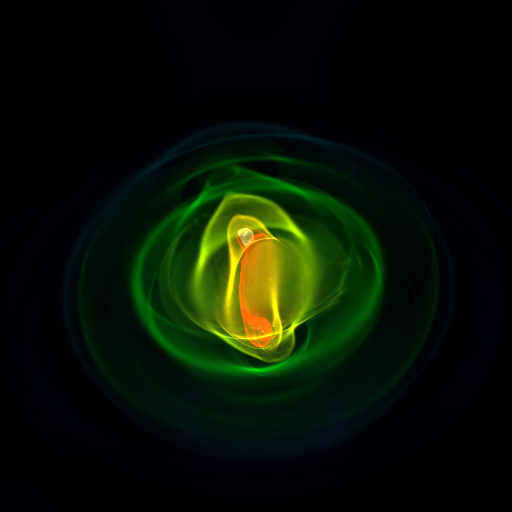
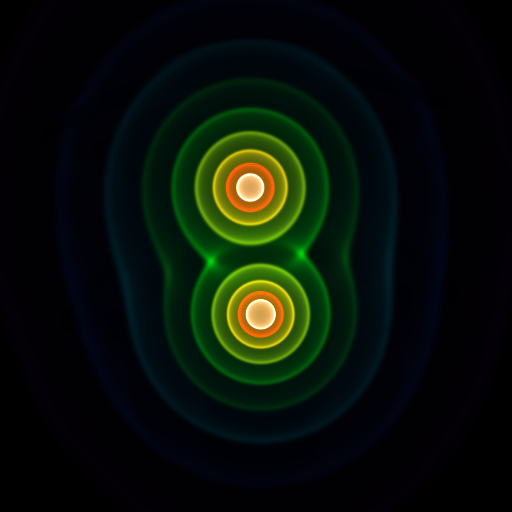
Adding saved python script

Changed region(s): [[0.2188, 0.1562, 0.7812, 0.75], [0.5938, 0.1875, 0.6562, 0.25], [0.1562, 0.5, 0.1875, 0.5312]]

diff --git a/ethan/yt_script1t.py b/ethan/yt_script1t.py
@@ -1,0 +1,14 @@
+import yt
+import matplotlib.pyplot as plt
+import matplotlib.image as mpimg
+ds = yt.load("./sims_data/R1.5_v2400_b250/Data_000005")
+sc = yt.create_scene(ds, lens_type="perspective")
+source = sc[0]
+bounds = (5e-30, 5e-27)
+source.tfh.bounds = bounds
+sc.save("ethan/rendered_output.png", sigma_clip=8.0)
+img = mpimg.imread("ethan/rendered_output.png")
+plt.imshow(img)
+plt.axis('off')
+plt.show()
+
